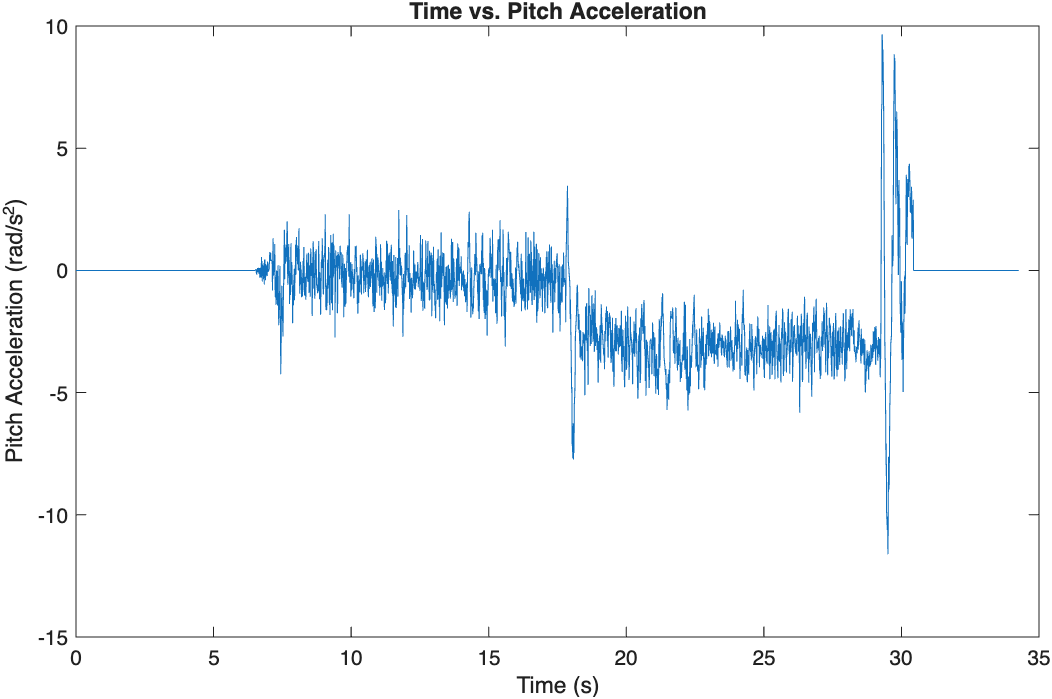
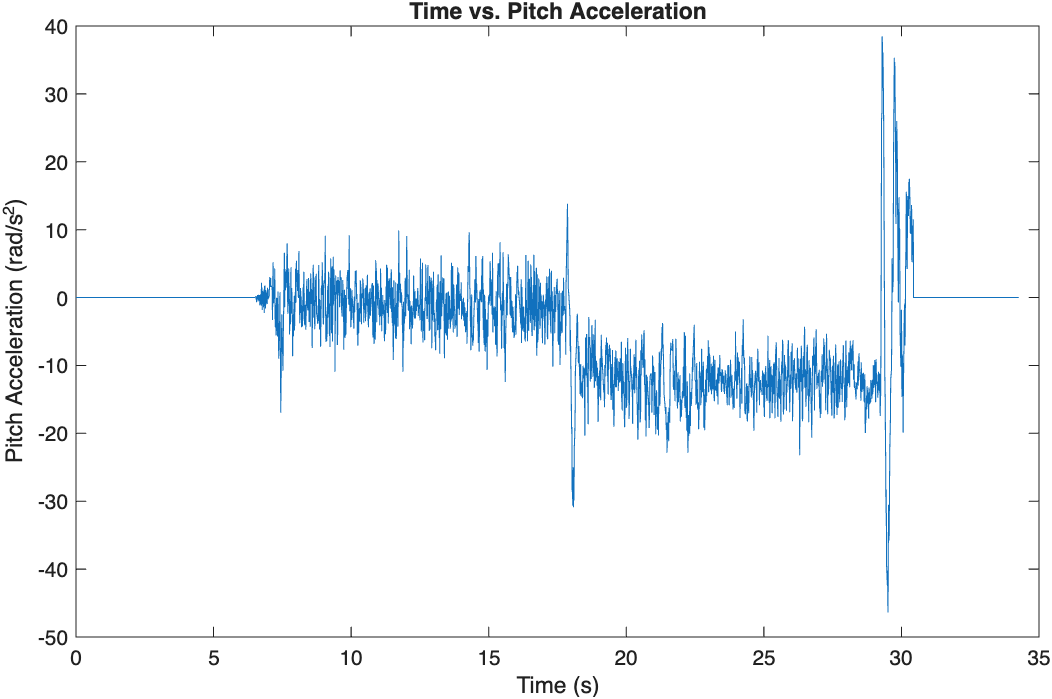
Fix incorrect mass moment value Reexport time vs. angular acceleration figure

diff --git a/script.m b/script.m
@@ -37,7 +37,7 @@ title("Time vs. Motor Thrust");
 legend(["Thrust 1" "Thrust 2" "Thrust 3" "Thrust 4"]);
 
 %Reverse engineer pitch acceleration
-massMoment = 0.0138; %in kg•m^2
+massMoment = 0.003456; %in kg•m^2
 propellerDistance = 0.12; %in meters
 
 figure
